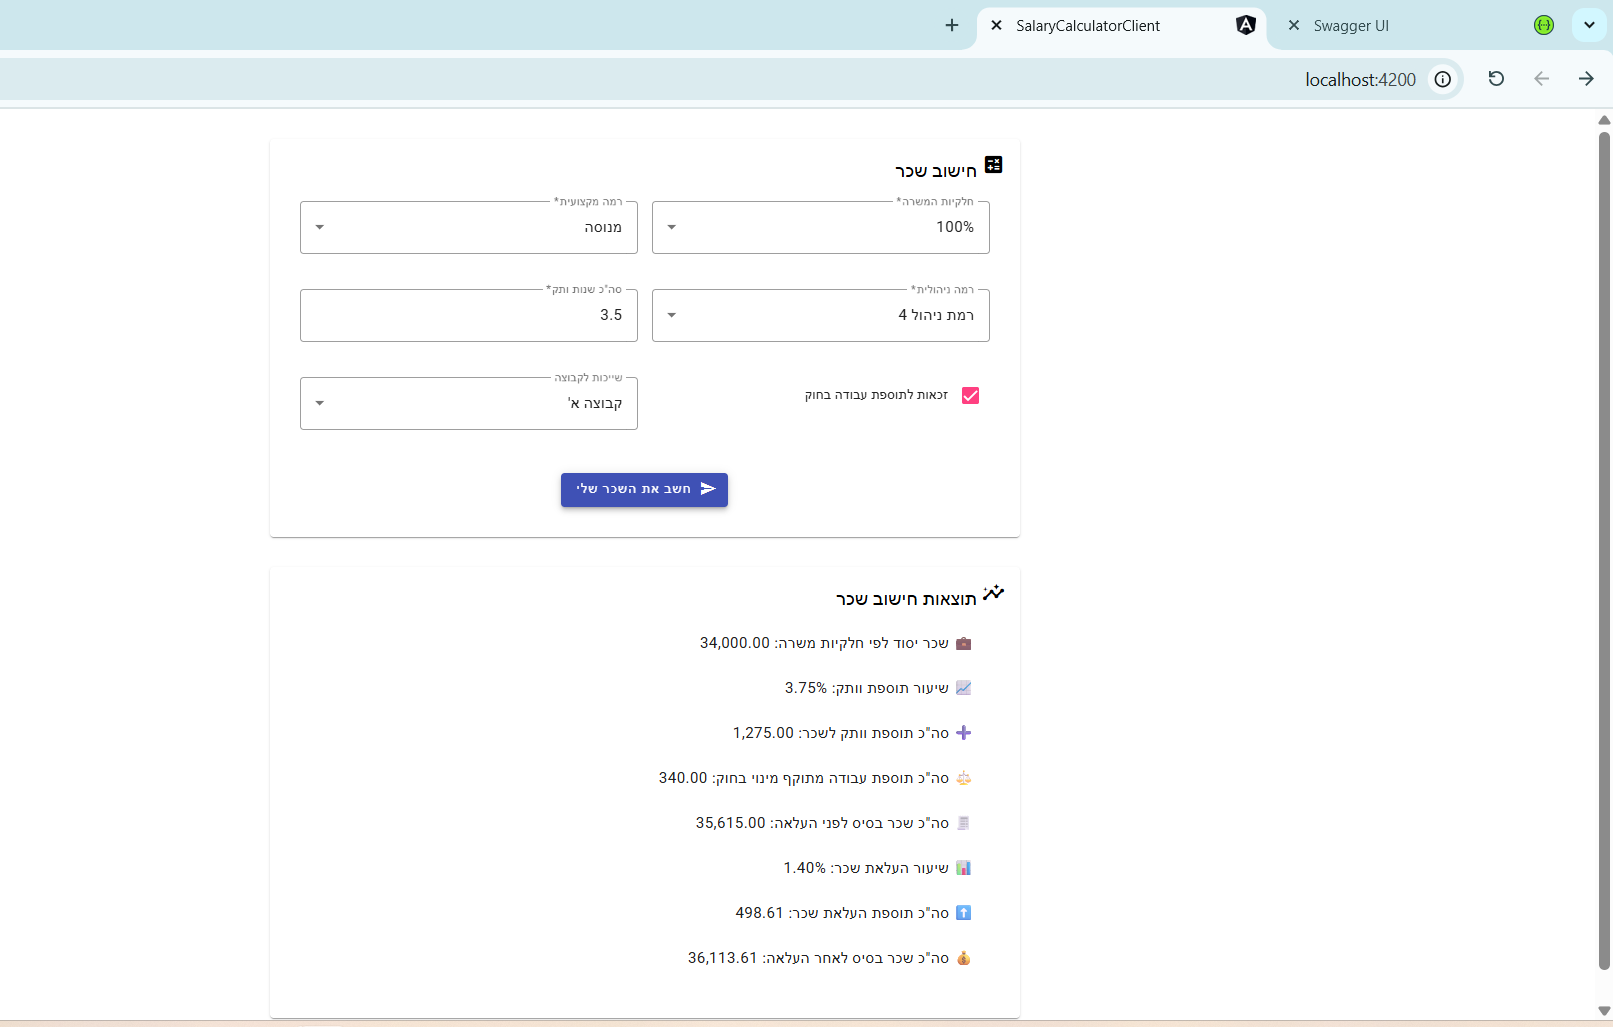
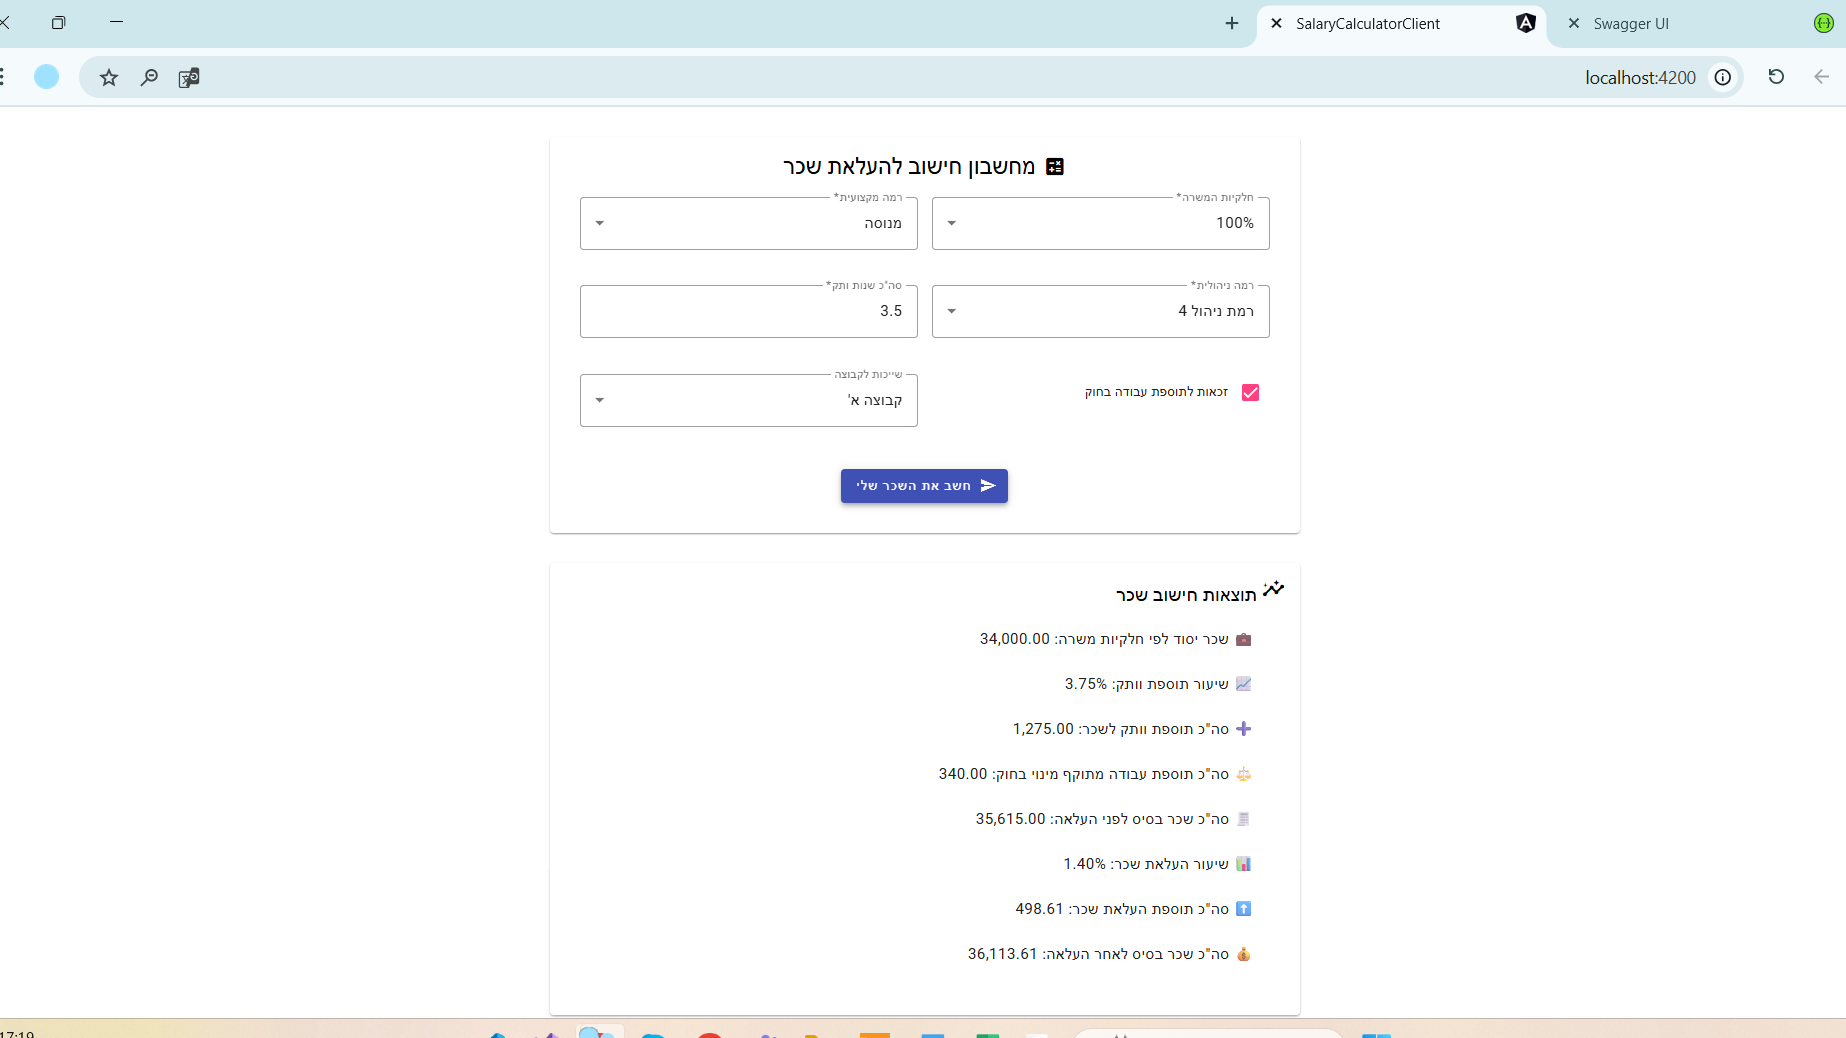
fix

diff --git a/client/SalaryCalculator-Client/src/app/components/salary-calculator/salary-calculator.component.html b/client/SalaryCalculator-Client/src/app/components/salary-calculator/salary-calculator.component.html
@@ -1,7 +1,7 @@
 <mat-card class="salary-form-card">
-    <mat-card-title>
+    <mat-card-title class="card-title-centered">
         <mat-icon>calculate</mat-icon>
-        חישוב שכר
+        מחשבון חישוב להעלאת שכר
     </mat-card-title>
 
     <mat-card-content>
@@ -44,7 +44,7 @@
                 </mat-form-field>
 
                 <!-- זכאות לתוספת עבודה בחוק -->
-                <mat-checkbox formControlName="lawBonusEligible" >
+                <mat-checkbox formControlName="lawBonusEligible">
                     זכאות לתוספת עבודה בחוק
                 </mat-checkbox>
 
@@ -81,7 +81,8 @@
             <mat-list-item>💼 שכר יסוד לפי חלקיות משרה: {{ result.baseSalary | number:'1.2-2' }}</mat-list-item>
             <mat-list-item>📈 שיעור תוספת וותק: {{ result.seniorityBonusPercent | number:'1.2-2' }}%</mat-list-item>
             <mat-list-item>➕ סה"כ תוספת וותק לשכר: {{ result.seniorityBonusAmount | number:'1.2-2' }}</mat-list-item>
-            <mat-list-item>⚖ סה"כ תוספת עבודה מתוקף מינוי בחוק: {{ result.lawBonusAmount | number:'1.2-2' }}</mat-list-item>
+            <mat-list-item>⚖ סה"כ תוספת עבודה מתוקף מינוי בחוק: {{ result.lawBonusAmount | number:'1.2-2'
+                }}</mat-list-item>
             <mat-list-item>🧾 סה"כ שכר בסיס לפני העלאה: {{ result.salaryBeforeRaise | number:'1.2-2' }}</mat-list-item>
             <mat-list-item>📊 שיעור העלאת שכר: {{ result.raisePercent | number:'1.2-2' }}%</mat-list-item>
             <mat-list-item>⬆ סה"כ תוספת העלאת שכר: {{ result.raiseAmount | number:'1.2-2' }}</mat-list-item>

diff --git a/client/SalaryCalculator-Client/src/app/components/salary-calculator/salary-calculator.component.css b/client/SalaryCalculator-Client/src/app/components/salary-calculator/salary-calculator.component.css
@@ -1,26 +1,32 @@
-.salary-form-card, .result-card {
-    margin: 2rem auto;
-    max-width: 800px;
-    padding: 1rem;
-    /* align-items: center; */
-    /* direction: rtl; */
-  }
-  
-  .form-grid {
-    display: grid;
-    grid-template-columns: repeat(auto-fit, minmax(240px, 1fr));
-    gap: 1rem;
-    align-items: start;
-    padding-top: 1rem;
-  }
-  
-  .full-width {
-    grid-column: span 2;
-  }
-  
-  .submit-wrapper {
-    margin-top: 1.5rem;
-    display: flex;
-    justify-content: center;
-  }
-  
+.salary-form-card,
+.result-card {
+  margin: 2rem auto;
+  max-width: 50rem;
+  padding: 1rem;
+}
+
+.card-title-centered {
+  display: flex;
+  justify-content: center; 
+  align-items: center;     
+  gap: 0.5rem;            
+  font-size: 1.5rem;
+}
+
+.form-grid {
+  display: grid;
+  grid-template-columns: repeat(auto-fit, minmax(15rem, 1fr));
+  gap: 1rem;
+  align-items: start;
+  padding-top: 1rem;
+}
+
+.full-width {
+  grid-column: span 2;
+}
+
+.submit-wrapper {
+  margin-top: 1.5rem;
+  display: flex;
+  justify-content: center;
+}

diff --git a/client/SalaryCalculator-Client/src/app/components/salary-calculator/salary-calculator.component.ts b/client/SalaryCalculator-Client/src/app/components/salary-calculator/salary-calculator.component.ts
@@ -1,7 +1,7 @@
 import { Component, OnInit } from '@angular/core';
 import { FormBuilder, FormGroup, Validators } from '@angular/forms';
-import { Observable, forkJoin, map } from 'rxjs';
-import { LookupItem, SalaryCalculationResult, SalaryService } from 'src/app/services/salary.service';
+import { Observable, map } from 'rxjs';
+import { SalaryCalculationResult, SalaryService } from 'src/app/services/salary.service';
 
 @Component({
   selector: 'app-salary-calculator',

diff --git a/client/SalaryCalculator-Client/src/app/app.module.ts b/client/SalaryCalculator-Client/src/app/app.module.ts
@@ -1,6 +1,5 @@
 import { NgModule } from '@angular/core';
 import { BrowserModule } from '@angular/platform-browser';
-
 import { AppRoutingModule } from './app-routing.module';
 import { AppComponent } from './app.component';
 import { BrowserAnimationsModule } from '@angular/platform-browser/animations';
